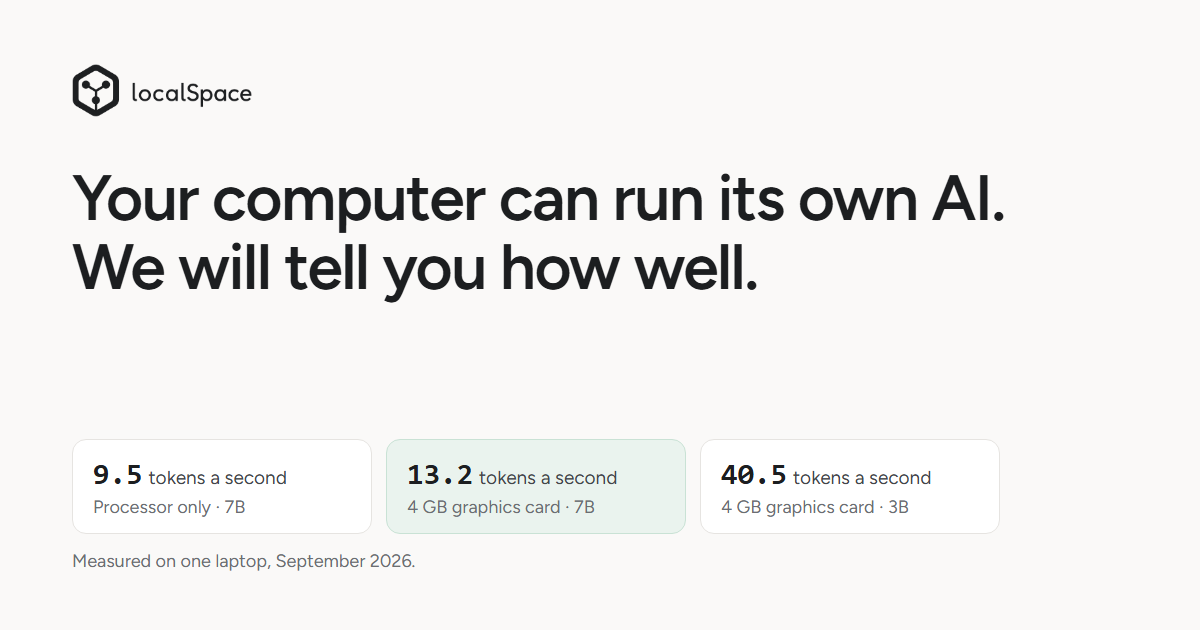
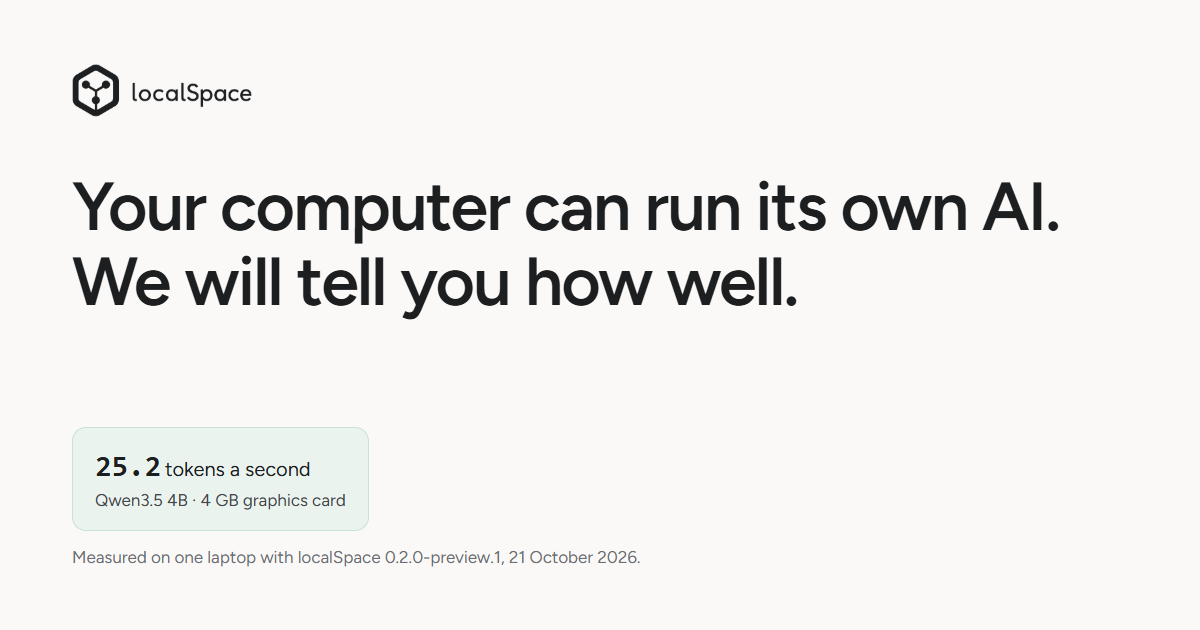
feat: the examples retaken on Qwen3.5 4B from 0.2.0-preview.1
The demo's answer and speed (25.2 tokens a second on a 4 GB card), the
three How it works screens and the link-preview image, all from one sitting
on 21 October 2026. The earlier-version line goes.

diff --git a/ru/index.html b/ru/index.html
@@ -20,7 +20,7 @@
 <meta property="og:image" content="https://linusip.github.io/localLabs/og.png">
 <meta property="og:image:width" content="1200">
 <meta property="og:image:height" content="630">
-<meta property="og:image:alt" content="The localSpace logo and the words: Your computer can run its own AI. We will tell you how well. Below them, three speeds measured on one laptop: 9.5, 13.2 and 40.5 tokens a second.">
+<meta property="og:image:alt" content="The localSpace logo and the words: Your computer can run its own AI. We will tell you how well. Below them, one speed measured on one laptop: Qwen3.5 4B, 25.2 tokens a second, with a 4 GB graphics card.">
 <meta name="twitter:card" content="summary_large_image">
 <meta name="twitter:title" content="Ваш компьютер может запускать свой ИИ. Мы скажем, насколько хорошо.">
 <meta name="twitter:description" content="localSpace смотрит на ваш компьютер, советует подходящую ему модель и ещё до загрузки говорит, как быстро она будет писать. Всё, что вы пишете, остаётся на вашем компьютере.">
@@ -77,9 +77,7 @@
         <div class="demo-pick" data-demo-pick hidden>
           <p class="demo-label" id="demo-label">На одном ноутбуке:</p>
           <div class="chips" role="group" aria-labelledby="demo-label">
-            <button class="chip" type="button" aria-pressed="false" data-tps="9.5" data-model="Qwen2.5 7B">Только процессор <span class="chip-model">7B</span></button>
-            <button class="chip" type="button" aria-pressed="true" data-tps="13.2" data-model="Qwen2.5 7B">Видеокарта 4 ГБ <span class="chip-model">7B</span></button>
-            <button class="chip" type="button" aria-pressed="false" data-tps="40.5" data-model="Qwen2.5 3B">Видеокарта 4 ГБ <span class="chip-model">3B</span></button>
+            <button class="chip" type="button" aria-pressed="true" data-tps="25.2" data-model="Qwen3.5 4B">Видеокарта 4 ГБ <span class="chip-model">4B</span></button>
           </div>
         </div>
         <div class="panel">
@@ -91,25 +89,30 @@
             <div class="msg" lang="en">
               <span class="avatar avatar-model" aria-hidden="true"><svg viewBox="0 0 256 256" focusable="false"><g fill="none" stroke="currentColor" stroke-linecap="round" stroke-linejoin="round"><path d="M136.4 40.85 199.27 77.15A16.8 16.8 0 0 1 207.67 91.7V164.3A16.8 16.8 0 0 1 199.27 178.85L136.4 215.15A16.8 16.8 0 0 1 119.6 215.15L56.73 178.85A16.8 16.8 0 0 1 48.33 164.3V91.7A16.8 16.8 0 0 1 56.73 77.15L119.6 40.85A16.8 16.8 0 0 1 136.4 40.85Z" stroke-width="23.3"/><path d="M88.5 105.3 128 131.2 167.5 105.3" stroke-width="9.1"/><path d="M128 131.2V208.3" stroke-width="9.1"/></g><g fill="currentColor"><circle cx="88.5" cy="105.3" r="15.5"/><circle cx="167.5" cy="105.3" r="15.5"/><circle cx="128" cy="168.2" r="15.5"/></g></svg></span>
               <div class="msg-body">
-                <p class="answer" data-demo-answer>Subject: Request for Kitchen Tap Repair
+                <p class="answer" data-demo-answer>Subject: Request to repair leaking kitchen tap
 
 Dear [Landlord's Name],
 
-I hope this email finds you well. I am writing to bring to your attention a small issue in the kitchen. The tap seems to be leaking, which is a bit concerning. I believe it would be best if you could have a look at it and arrange for it to be fixed at your earliest convenience.
+I hope you are having a good week.
 
-Thank you for your prompt attention to this matter.
+I am writing to kindly ask if it would be possible to have the leaking tap in the kitchen fixed at your earliest convenience. The water is running continuously, which is causing some inconvenience and potential damage to the countertop.
 
-Best regards,</p>
+Please let me know what steps we need to take next or if you require any further information from my side.
+
+Thank you for your time and assistance.
+
+Best regards,
+[Your Name]
+[Your Address/Unit Number]</p>
               </div>
             </div>
           </div>
           <div class="panel-foot">
-            <span class="model-chip" data-demo-model>Qwen2.5 7B</span>
-            <p class="rate" data-demo-rate data-rate="{t} токена в секунду · около {w} слов в секунду" aria-live="polite"><span class="num">13,2</span> токена в секунду · около 10 слов в секунду</p>
+            <span class="model-chip" data-demo-model>Qwen3.5 4B</span>
+            <p class="rate" data-demo-rate data-rate="{t} токена в секунду · около {w} слов в секунду" aria-live="polite"><span class="num">25,2</span> токена в секунду · около 19 слов в секунду</p>
           </div>
         </div>
-        <figcaption>Скорость во время ответа, измеренная на настоящем ноутбуке в сентябре 2026 года. Вопрос и ответ показаны так, как они были написаны, на английском. Приложение скажет вашу скорость до любой загрузки.</figcaption>
-        <p class="earlier">Примеры из более ранней версии; новые примеры скоро появятся.</p>
+        <figcaption>Скорость во время ответа: Qwen3.5 4B в localSpace 0.2.0-preview.1, измерено 21 октября 2026 года на ноутбуке с NVIDIA GeForce RTX 3050 Ti (4 ГБ) и 16 ГБ памяти, в режиме Silent. Вопрос и ответ показаны так, как они были написаны, на английском. Приложение скажет вашу скорость до любой загрузки.</figcaption>
       </figure>
     </div>
   </section>
@@ -128,7 +131,6 @@ Best regards,</p>
   <section class="section" id="how" aria-labelledby="how-title">
     <div class="wrap">
       <h2 id="how-title">Как это работает</h2>
-      <p class="earlier earlier-how">Примеры из более ранней версии; новые примеры скоро появятся.</p>
       <ol class="steps">
         <li>
           <figure class="step">
@@ -136,7 +138,7 @@ Best regards,</p>
               <h3>До любой загрузки оно смотрит на ваш компьютер</h3>
               <p>Первый экран: что приложение нашло, какую модель советует этому компьютеру, как быстро она будет писать и сколько нужно скачать.</p>
             </figcaption>
-            <img class="shot" src="../shots/first-run.webp" width="576" height="598" loading="lazy" decoding="async" alt="Первый экран localSpace на английском. В разделе «Этот компьютер»: NVIDIA GeForce RTX 3050 Ti Laptop GPU, 4 ГБ видеопамяти, 16 ГБ оперативной памяти. Рекомендовано: Qwen2.5 7B Instruct, работает хорошо, быстрее, чем вы читаете, около 7–9 слов в секунду. Около половины модели помещается в видеопамять, остальное работает из оперативной памяти, а это медленнее. Бесплатно, в том числе для коммерческого использования. Скачать около 4,4 ГБ; на диске C: свободно 92 ГБ. Кнопка «Скачать и начать».">
+            <img class="shot" src="../shots/first-run.webp" width="540" height="463" loading="lazy" decoding="async" alt="Первый экран localSpace 0.2.0-preview.1 на английском. В разделе «Этот компьютер»: NVIDIA GeForce RTX 3050 Ti Laptop GPU, 4 ГБ видеопамяти, 16 ГБ оперативной памяти. Рекомендовано: Qwen3.5 4B, работает хорошо, быстрее, чем вы читаете, около 15–20 слов в секунду. Большая часть модели помещается в видеопамять, остальное работает из оперативной памяти, а это медленнее. Бесплатно, в том числе для коммерческого использования. Скачать около 3,2 ГБ; на диске D: свободно 12 ГБ. Кнопка «Скачать и начать».">
           </figure>
         </li>
         <li>
@@ -145,7 +147,7 @@ Best regards,</p>
               <h3>Каждая модель говорит, как она будет работать</h3>
               <p>Мы лучше скажем, что модель медленная, чем вы узнаете это после загрузки на 60 ГБ.</p>
             </figcaption>
-            <img class="shot" src="../shots/models.webp" width="694" height="728" loading="lazy" decoding="async" alt="Список моделей в настройках localSpace на английском, у каждой — как она будет работать на этом компьютере, ещё до загрузки. Qwen2.5 0.5B Instruct: работает хорошо, быстрее, чем вы читаете, около 50–70 слов в секунду. Qwen2.5 1.5B Instruct: работает хорошо, около 35–50 слов в секунду. Qwen2.5 3B Instruct: работает хорошо, около 20–30 слов в секунду; бесплатно только для исследований и оценки, не для коммерческого использования. Qwen2.5 7B Instruct: работает хорошо, около 7–9 слов в секунду. Qwen2.5 14B Instruct: работает примерно с вашей скоростью чтения, около 3–4 слов в секунду. Qwen3 30B-A3B: не поместится на этом компьютере; скачать около 17,3 ГБ. gpt-oss 120B: не поместится на этом компьютере; скачать около 59,0 ГБ.">
+            <img class="shot" src="../shots/models.webp" width="685" height="530" loading="lazy" decoding="async" alt="Модели, которые можно добавить, в настройках localSpace на английском, в разделе «Хорошо работает на этом компьютере»; у каждой — как она будет работать здесь, ещё до загрузки. Qwen3.5 4B от Alibaba (Qwen): около 15–20 слов в секунду, скачать около 3,2 ГБ. Qwen3.5 9B: около 5–7 слов в секунду, около 6,1 ГБ; ей нужна почти вся память компьютера, поэтому перед работой закройте другие программы, например браузер. Gemma 4 E2B от Google: около 15–20 слов в секунду, около 3,2 ГБ. Gemma 4 E4B: около 7–10 слов в секунду, около 4,8 ГБ. Все бесплатны, в том числе для коммерческого использования. Под списком: «Показать 2 модели, которые не поместятся».">
           </figure>
         </li>
         <li>
@@ -154,7 +156,7 @@ Best regards,</p>
               <h3>Потом вы пишете</h3>
               <p>Ответы пишутся на вашем компьютере, и ваши разговоры хранятся там же.</p>
             </figcaption>
-            <img class="shot" src="../shots/chat.webp" width="795" height="540" loading="lazy" decoding="async" alt="Разговор в localSpace на английском. Вопрос: у меня есть яйца, шпинат, фета и полбуханки чёрствого хлеба; что приготовить на ужин? Модель предлагает омлет со шпинатом и фетой: обжарить шпинат с чесноком и добавить фету в яйца во время готовки. Вопрос: что проверить перед покупкой подержанного велосипеда? Модель перечисляет восемь пунктов, от тормозов, колёс и шин до цепи, переключателей, рамы и фонарей, и советует ещё показать велосипед мастеру.">
+            <img class="shot" src="../shots/chat.webp" width="792" height="648" loading="lazy" decoding="async" alt="Разговор в localSpace с Qwen3.5 4B на английском. Вопрос: что проверить перед покупкой подержанного велосипеда? Модель перечисляет семь проверок: пробная поездка (тормоза, передачи, управление), шины, рама (трещины и ржавчина), колёса и спицы, седло и подседельный штырь, цепь и переключатель, история велосипеда. И в конце: если что-то сломано или непонятно, узнайте цену ремонта, прежде чем платить полную стоимость.">
           </figure>
         </li>
       </ol>

diff --git a/uz/index.html b/uz/index.html
@@ -20,7 +20,7 @@
 <meta property="og:image" content="https://linusip.github.io/localLabs/og.png">
 <meta property="og:image:width" content="1200">
 <meta property="og:image:height" content="630">
-<meta property="og:image:alt" content="The localSpace logo and the words: Your computer can run its own AI. We will tell you how well. Below them, three speeds measured on one laptop: 9.5, 13.2 and 40.5 tokens a second.">
+<meta property="og:image:alt" content="The localSpace logo and the words: Your computer can run its own AI. We will tell you how well. Below them, one speed measured on one laptop: Qwen3.5 4B, 25.2 tokens a second, with a 4 GB graphics card.">
 <meta name="twitter:card" content="summary_large_image">
 <meta name="twitter:title" content="Kompyuteringiz oʻz sunʼiy intellektini ishga tushira oladi. Qanchalik yaxshi ekanini biz aytamiz.">
 <meta name="twitter:description" content="localSpace kompyuteringizni koʻrib chiqadi, unga mos modelni tavsiya qiladi va hech narsa yuklab olinmasdan oldin u qanchalik tez yozishini aytadi. Siz yozgan hamma narsa kompyuteringizda qoladi.">
@@ -77,9 +77,7 @@
         <div class="demo-pick" data-demo-pick hidden>
           <p class="demo-label" id="demo-label">Bitta noutbukda:</p>
           <div class="chips" role="group" aria-labelledby="demo-label">
-            <button class="chip" type="button" aria-pressed="false" data-tps="9.5" data-model="Qwen2.5 7B">Faqat protsessor <span class="chip-model">7B</span></button>
-            <button class="chip" type="button" aria-pressed="true" data-tps="13.2" data-model="Qwen2.5 7B">4 GB videokarta <span class="chip-model">7B</span></button>
-            <button class="chip" type="button" aria-pressed="false" data-tps="40.5" data-model="Qwen2.5 3B">4 GB videokarta <span class="chip-model">3B</span></button>
+            <button class="chip" type="button" aria-pressed="true" data-tps="25.2" data-model="Qwen3.5 4B">4 GB videokarta <span class="chip-model">4B</span></button>
           </div>
         </div>
         <div class="panel">
@@ -91,25 +89,30 @@
             <div class="msg" lang="en">
               <span class="avatar avatar-model" aria-hidden="true"><svg viewBox="0 0 256 256" focusable="false"><g fill="none" stroke="currentColor" stroke-linecap="round" stroke-linejoin="round"><path d="M136.4 40.85 199.27 77.15A16.8 16.8 0 0 1 207.67 91.7V164.3A16.8 16.8 0 0 1 199.27 178.85L136.4 215.15A16.8 16.8 0 0 1 119.6 215.15L56.73 178.85A16.8 16.8 0 0 1 48.33 164.3V91.7A16.8 16.8 0 0 1 56.73 77.15L119.6 40.85A16.8 16.8 0 0 1 136.4 40.85Z" stroke-width="23.3"/><path d="M88.5 105.3 128 131.2 167.5 105.3" stroke-width="9.1"/><path d="M128 131.2V208.3" stroke-width="9.1"/></g><g fill="currentColor"><circle cx="88.5" cy="105.3" r="15.5"/><circle cx="167.5" cy="105.3" r="15.5"/><circle cx="128" cy="168.2" r="15.5"/></g></svg></span>
               <div class="msg-body">
-                <p class="answer" data-demo-answer>Subject: Request for Kitchen Tap Repair
+                <p class="answer" data-demo-answer>Subject: Request to repair leaking kitchen tap
 
 Dear [Landlord's Name],
 
-I hope this email finds you well. I am writing to bring to your attention a small issue in the kitchen. The tap seems to be leaking, which is a bit concerning. I believe it would be best if you could have a look at it and arrange for it to be fixed at your earliest convenience.
+I hope you are having a good week.
 
-Thank you for your prompt attention to this matter.
+I am writing to kindly ask if it would be possible to have the leaking tap in the kitchen fixed at your earliest convenience. The water is running continuously, which is causing some inconvenience and potential damage to the countertop.
 
-Best regards,</p>
+Please let me know what steps we need to take next or if you require any further information from my side.
+
+Thank you for your time and assistance.
+
+Best regards,
+[Your Name]
+[Your Address/Unit Number]</p>
               </div>
             </div>
           </div>
           <div class="panel-foot">
-            <span class="model-chip" data-demo-model>Qwen2.5 7B</span>
-            <p class="rate" data-demo-rate data-rate="soniyasiga {t} token · soniyasiga taxminan {w} soʻz" aria-live="polite">soniyasiga <span class="num">13,2</span> token · soniyasiga taxminan 10 soʻz</p>
+            <span class="model-chip" data-demo-model>Qwen3.5 4B</span>
+            <p class="rate" data-demo-rate data-rate="soniyasiga {t} token · soniyasiga taxminan {w} soʻz" aria-live="polite">soniyasiga <span class="num">25,2</span> token · soniyasiga taxminan 19 soʻz</p>
           </div>
         </div>
-        <figcaption>Javob yozilayotgandagi tezlik, 2026-yil sentabrida haqiqiy noutbukda oʻlchangan. Savol va javob qanday yozilgan boʻlsa, shunday — ingliz tilida koʻrsatilgan. Ilova sizning tezligingizni hech narsa yuklab olinmasdan oldin aytadi.</figcaption>
-        <p class="earlier">Misollar oldingi versiyadan; yangi misollar tez orada.</p>
+        <figcaption>Javob yozilayotgandagi tezlik: localSpace 0.2.0-preview.1 dagi Qwen3.5 4B, 2026-yil 21-oktabrda NVIDIA GeForce RTX 3050 Ti (4 GB) va 16 GB xotirali noutbukda, Silent rejimida oʻlchangan. Savol va javob qanday yozilgan boʻlsa, shunday — ingliz tilida koʻrsatilgan. Ilova sizning tezligingizni hech narsa yuklab olinmasdan oldin aytadi.</figcaption>
       </figure>
     </div>
   </section>
@@ -128,7 +131,6 @@ Best regards,</p>
   <section class="section" id="how" aria-labelledby="how-title">
     <div class="wrap">
       <h2 id="how-title">Qanday ishlaydi</h2>
-      <p class="earlier earlier-how">Misollar oldingi versiyadan; yangi misollar tez orada.</p>
       <ol class="steps">
         <li>
           <figure class="step">
@@ -136,7 +138,7 @@ Best regards,</p>
               <h3>Hech narsa yuklab olinmasdan oldin u kompyuteringizni koʻrib chiqadi</h3>
               <p>Birinchi ekran: nima topgani, shu kompyuterga qaysi modelni tavsiya qilgani, u qanchalik tez yozishi va qancha yuklab olish kerakligi.</p>
             </figcaption>
-            <img class="shot" src="../shots/first-run.webp" width="576" height="598" loading="lazy" decoding="async" alt="localSpace’ning ingliz tilidagi birinchi ekrani. «Bu kompyuter» ostida: NVIDIA GeForce RTX 3050 Ti Laptop GPU, 4 GB videoxotira, 16 GB tizim xotirasi. Tavsiya etilgani: Qwen2.5 7B Instruct, yaxshi ishlaydi, siz oʻqishingizdan tezroq, soniyasiga taxminan 7–9 soʻz. Uning taxminan yarmi videoxotiraga sigʻadi, qolgani sekinroq tizim xotirasidan ishlaydi. Bepul, tijoriy foydalanish uchun ham. Taxminan 4,4 GB yuklab olinadi; C: diskda 92 GB boʻsh. «Yuklab olish va boshlash» tugmasi.">
+            <img class="shot" src="../shots/first-run.webp" width="540" height="463" loading="lazy" decoding="async" alt="localSpace 0.2.0-preview.1 ning ingliz tilidagi birinchi ekrani. «Bu kompyuter» ostida: NVIDIA GeForce RTX 3050 Ti Laptop GPU, 4 GB videoxotira, 16 GB tizim xotirasi. Tavsiya etilgani: Qwen3.5 4B, yaxshi ishlaydi, siz oʻqishingizdan tezroq, soniyasiga taxminan 15–20 soʻz. Uning katta qismi videoxotiraga sigʻadi, qolgani sekinroq tizim xotirasidan ishlaydi. Bepul, tijoriy foydalanish uchun ham. Taxminan 3,2 GB yuklab olinadi; D: diskda 12 GB boʻsh. «Yuklab olish va boshlash» tugmasi.">
           </figure>
         </li>
         <li>
@@ -145,7 +147,7 @@ Best regards,</p>
               <h3>Har bir model qanday ishlashini aytadi</h3>
               <p>60 GB yuklab olgandan keyin bilib qolishingizdan koʻra, sekin ekanini oldindan aytganimiz maʼqul.</p>
             </figcaption>
-            <img class="shot" src="../shots/models.webp" width="694" height="728" loading="lazy" decoding="async" alt="localSpace sozlamalaridagi ingliz tilidagi modellar roʻyxati; har birida yuklab olinmasdan oldin shu kompyuterda qanday ishlashi yozilgan. Qwen2.5 0.5B Instruct: yaxshi ishlaydi, siz oʻqishingizdan tezroq, soniyasiga taxminan 50–70 soʻz. Qwen2.5 1.5B Instruct: yaxshi ishlaydi, soniyasiga taxminan 35–50 soʻz. Qwen2.5 3B Instruct: yaxshi ishlaydi, soniyasiga taxminan 20–30 soʻz; faqat tadqiqot va baholash uchun bepul, tijoriy foydalanish uchun emas. Qwen2.5 7B Instruct: yaxshi ishlaydi, soniyasiga taxminan 7–9 soʻz. Qwen2.5 14B Instruct: ishlaydi, taxminan siz oʻqigandek tez, soniyasiga 3–4 soʻz. Qwen3 30B-A3B: bu kompyuterga sigʻmaydi; taxminan 17,3 GB yuklab olinadi. gpt-oss 120B: bu kompyuterga sigʻmaydi; taxminan 59,0 GB yuklab olinadi.">
+            <img class="shot" src="../shots/models.webp" width="685" height="530" loading="lazy" decoding="async" alt="localSpace sozlamalaridagi qoʻshish mumkin boʻlgan modellar (ingliz tilida), «Bu kompyuterda yaxshi ishlaydi» ostida; har birida yuklab olinmasdan oldin bu yerda qanday ishlashi yozilgan. Alibaba (Qwen) ning Qwen3.5 4B: soniyasiga taxminan 15–20 soʻz, taxminan 3,2 GB. Qwen3.5 9B: soniyasiga taxminan 5–7 soʻz, taxminan 6,1 GB; unga kompyuter xotirasining katta qismi kerak, shuning uchun undan oldin brauzer kabi boshqa dasturlarni yoping. Google ning Gemma 4 E2B: soniyasiga taxminan 15–20 soʻz, taxminan 3,2 GB. Gemma 4 E4B: soniyasiga taxminan 7–10 soʻz, taxminan 4,8 GB. Hammasi bepul, tijoriy foydalanish uchun ham. Roʻyxat ostida: «Sigʻmaydigan 2 ta modelni koʻrsatish».">
           </figure>
         </li>
         <li>
@@ -154,7 +156,7 @@ Best regards,</p>
               <h3>Keyin siz yozasiz</h3>
               <p>Javoblar kompyuteringizda yoziladi, suhbatlaringiz ham oʻsha yerda saqlanadi.</p>
             </figcaption>
-            <img class="shot" src="../shots/chat.webp" width="795" height="540" loading="lazy" decoding="async" alt="localSpace’dagi ingliz tilidagi suhbat. Savol: menda tuxum, ismaloq, feta pishlogʻi va yarimta qotgan non bor; kechqurun nima pishirsam boʻladi? Model ismaloq va fetali omlet taklif qiladi: ismaloqni sarimsoq bilan qovurib, pishayotgan tuxumga fetani qoʻshish. Savol: ishlatilgan velosiped sotib olishdan oldin nimani tekshirish kerak? Model tormoz, gʻildirak va shinalardan tortib zanjir, tezlik almashtirgich, rama va chiroqlargacha sakkizta narsani sanaydi va ustaga koʻrsatishni ham maslahat beradi.">
+            <img class="shot" src="../shots/chat.webp" width="792" height="648" loading="lazy" decoding="async" alt="localSpace’dagi Qwen3.5 4B bilan ingliz tilidagi suhbat. Savol: ishlatilgan velosiped sotib olishdan oldin nimani tekshirish kerak? Model yettita tekshiruvni sanaydi: sinov yurishi (tormoz, tezliklar, boshqaruv), shinalar, rama (yoriq va zang), gʻildirak va kegaylar, oʻrindiq va uning ustuni, zanjir va tezlik almashtirgich, velosiped tarixi. Oxirida: biror narsa buzilgan yoki tushunarsiz boʻlsa, toʻliq narx toʻlashdan oldin taʼmirlash narxini soʻrang.">
           </figure>
         </li>
       </ol>

diff --git a/index.html b/index.html
@@ -20,7 +20,7 @@
 <meta property="og:image" content="https://linusip.github.io/localLabs/og.png">
 <meta property="og:image:width" content="1200">
 <meta property="og:image:height" content="630">
-<meta property="og:image:alt" content="The localSpace logo and the words: Your computer can run its own AI. We will tell you how well. Below them, three speeds measured on one laptop: 9.5, 13.2 and 40.5 tokens a second.">
+<meta property="og:image:alt" content="The localSpace logo and the words: Your computer can run its own AI. We will tell you how well. Below them, one speed measured on one laptop: Qwen3.5 4B, 25.2 tokens a second, with a 4 GB graphics card.">
 <meta name="twitter:card" content="summary_large_image">
 <meta name="twitter:title" content="Your computer can run its own AI. We will tell you how well.">
 <meta name="twitter:description" content="localSpace looks at your computer, recommends a model that suits it and tells you how fast it will write before anything downloads. Everything you type stays on your machine.">
@@ -77,9 +77,7 @@
         <div class="demo-pick" data-demo-pick hidden>
           <p class="demo-label" id="demo-label">On one laptop:</p>
           <div class="chips" role="group" aria-labelledby="demo-label">
-            <button class="chip" type="button" aria-pressed="false" data-tps="9.5" data-model="Qwen2.5 7B">Processor only <span class="chip-model">7B</span></button>
-            <button class="chip" type="button" aria-pressed="true" data-tps="13.2" data-model="Qwen2.5 7B">4 GB graphics card <span class="chip-model">7B</span></button>
-            <button class="chip" type="button" aria-pressed="false" data-tps="40.5" data-model="Qwen2.5 3B">4 GB graphics card <span class="chip-model">3B</span></button>
+            <button class="chip" type="button" aria-pressed="true" data-tps="25.2" data-model="Qwen3.5 4B">4 GB graphics card <span class="chip-model">4B</span></button>
           </div>
         </div>
         <div class="panel">
@@ -91,25 +89,30 @@
             <div class="msg" lang="en">
               <span class="avatar avatar-model" aria-hidden="true"><svg viewBox="0 0 256 256" focusable="false"><g fill="none" stroke="currentColor" stroke-linecap="round" stroke-linejoin="round"><path d="M136.4 40.85 199.27 77.15A16.8 16.8 0 0 1 207.67 91.7V164.3A16.8 16.8 0 0 1 199.27 178.85L136.4 215.15A16.8 16.8 0 0 1 119.6 215.15L56.73 178.85A16.8 16.8 0 0 1 48.33 164.3V91.7A16.8 16.8 0 0 1 56.73 77.15L119.6 40.85A16.8 16.8 0 0 1 136.4 40.85Z" stroke-width="23.3"/><path d="M88.5 105.3 128 131.2 167.5 105.3" stroke-width="9.1"/><path d="M128 131.2V208.3" stroke-width="9.1"/></g><g fill="currentColor"><circle cx="88.5" cy="105.3" r="15.5"/><circle cx="167.5" cy="105.3" r="15.5"/><circle cx="128" cy="168.2" r="15.5"/></g></svg></span>
               <div class="msg-body">
-                <p class="answer" data-demo-answer>Subject: Request for Kitchen Tap Repair
+                <p class="answer" data-demo-answer>Subject: Request to repair leaking kitchen tap
 
 Dear [Landlord's Name],
 
-I hope this email finds you well. I am writing to bring to your attention a small issue in the kitchen. The tap seems to be leaking, which is a bit concerning. I believe it would be best if you could have a look at it and arrange for it to be fixed at your earliest convenience.
+I hope you are having a good week.
 
-Thank you for your prompt attention to this matter.
+I am writing to kindly ask if it would be possible to have the leaking tap in the kitchen fixed at your earliest convenience. The water is running continuously, which is causing some inconvenience and potential damage to the countertop.
 
-Best regards,</p>
+Please let me know what steps we need to take next or if you require any further information from my side.
+
+Thank you for your time and assistance.
+
+Best regards,
+[Your Name]
+[Your Address/Unit Number]</p>
               </div>
             </div>
           </div>
           <div class="panel-foot">
-            <span class="model-chip" data-demo-model>Qwen2.5 7B</span>
-            <p class="rate" data-demo-rate data-rate="{t} tokens a second · about {w} words a second" aria-live="polite"><span class="num">13.2</span> tokens a second · about 10 words a second</p>
+            <span class="model-chip" data-demo-model>Qwen3.5 4B</span>
+            <p class="rate" data-demo-rate data-rate="{t} tokens a second · about {w} words a second" aria-live="polite"><span class="num">25.2</span> tokens a second · about 19 words a second</p>
           </div>
         </div>
-        <figcaption>Speeds once it is writing, measured on a real laptop in September 2026. The app tells you yours before you download anything.</figcaption>
-        <p class="earlier">Examples from an earlier version; new examples coming soon.</p>
+        <figcaption>Speed once it is writing: Qwen3.5 4B in localSpace 0.2.0-preview.1, measured on 21 October 2026 on a laptop with an NVIDIA GeForce RTX 3050 Ti (4 GB) and 16 GB of memory, in Silent mode. The app tells you yours before you download anything.</figcaption>
       </figure>
     </div>
   </section>
@@ -128,7 +131,6 @@ Best regards,</p>
   <section class="section" id="how" aria-labelledby="how-title">
     <div class="wrap">
       <h2 id="how-title">How it works</h2>
-      <p class="earlier earlier-how">Examples from an earlier version; new examples coming soon.</p>
       <ol class="steps">
         <li>
           <figure class="step">
@@ -136,7 +138,7 @@ Best regards,</p>
               <h3>It looks at your computer before anything downloads</h3>
               <p>The first screen: what it found, the model it recommends for this computer, how fast that model will write and how big the download is.</p>
             </figcaption>
-            <img class="shot" src="shots/first-run.webp" width="576" height="598" loading="lazy" decoding="async" alt="The first screen of localSpace. Under This computer: NVIDIA GeForce RTX 3050 Ti Laptop GPU, 4 GB of graphics memory, 16 GB of system memory. Recommended for it: Qwen2.5 7B Instruct, runs well, faster than you read, about 7 to 9 words a second. About half of it fits in the graphics memory; the rest runs from system memory, which is slower. Free to use, also for commercial use. About 4.4 GB to download; drive C: has 92 GB free. A button, Download and start.">
+            <img class="shot" src="shots/first-run.webp" width="540" height="463" loading="lazy" decoding="async" alt="The first screen of localSpace 0.2.0-preview.1. Under This computer: NVIDIA GeForce RTX 3050 Ti Laptop GPU, 4 GB of graphics memory, 16 GB of system memory. Recommended for it: Qwen3.5 4B, runs well, faster than you read, about 15 to 20 words a second. Most of it fits in the graphics memory; the rest runs from system memory, which is slower. Free to use, also for commercial use. About 3.2 GB to download; drive D: has 12 GB free. A button, Download and start.">
           </figure>
         </li>
         <li>
@@ -145,7 +147,7 @@ Best regards,</p>
               <h3>Every model tells you how it will run</h3>
               <p>We would rather tell you it is slow than have you find out after a 60 GB download.</p>
             </figcaption>
-            <img class="shot" src="shots/models.webp" width="694" height="728" loading="lazy" decoding="async" alt="The list of models in localSpace's settings, each with how it will run on this computer before it is downloaded. Qwen2.5 0.5B Instruct: runs well, faster than you read, about 50 to 70 words a second. Qwen2.5 1.5B Instruct: runs well, about 35 to 50 words a second. Qwen2.5 3B Instruct: runs well, about 20 to 30 words a second; free for research and evaluation only, not for commercial use. Qwen2.5 7B Instruct: runs well, about 7 to 9 words a second. Qwen2.5 14B Instruct: works, about as fast as you read, about 3 to 4 words a second. Qwen3 30B-A3B: will not fit on this computer; about 17.3 GB to download. gpt-oss 120B: will not fit on this computer; about 59.0 GB to download.">
+            <img class="shot" src="shots/models.webp" width="685" height="530" loading="lazy" decoding="async" alt="The models that can be added, in localSpace's settings, under Runs well on this computer, each with how it will run here before it is downloaded. Qwen3.5 4B by Alibaba (Qwen): about 15 to 20 words a second, about 3.2 GB to download. Qwen3.5 9B: about 5 to 7 words a second, about 6.1 GB; it needs most of this computer's memory, so close other programs such as your browser before you use it. Gemma 4 E2B by Google: about 15 to 20 words a second, about 3.2 GB. Gemma 4 E4B: about 7 to 10 words a second, about 4.8 GB. Each is free to use, also for commercial use. Below the list: Show the 2 models that will not fit.">
           </figure>
         </li>
         <li>
@@ -154,7 +156,7 @@ Best regards,</p>
               <h3>Then you type</h3>
               <p>Answers are written on your computer, and your conversations are kept there too.</p>
             </figcaption>
-            <img class="shot" src="shots/chat.webp" width="795" height="540" loading="lazy" decoding="async" alt="A conversation in localSpace. Asked: I have eggs, spinach, feta and half a loaf of stale bread. What can I cook tonight? It suggests feta-stuffed spinach omelets: sauté the spinach with some garlic, then stuff the feta into the eggs as they cook. Asked: What should I check before I buy a used bicycle? It lists eight things, from the brakes, wheels and tires to the chain, derailleurs, frame and lights, and suggests a mechanic's inspection as well.">
+            <img class="shot" src="shots/chat.webp" width="792" height="648" loading="lazy" decoding="async" alt="A conversation in localSpace with Qwen3.5 4B. Asked: What should I check before I buy a used bicycle? It lists seven checks: a test ride for the brakes, gears and handling; the tires; the frame, for cracks and rust; the wheels and spokes; the saddle and seatpost; the chain and derailleur; and the bike's history. It ends: if something is broken or unclear, ask for a repair estimate before paying full price.">
           </figure>
         </li>
       </ol>

diff --git a/style.css b/style.css
@@ -633,17 +633,6 @@ h3 {
 .hero-get { margin-top: 32px; }
 .hero-buttons { display: flex; flex-wrap: wrap; gap: 10px; }
 
-/* Says that the demo and the screens come from an earlier version. */
-.earlier {
-  margin-top: 10px;
-  font-size: 15px;
-  font-weight: 500;
-  color: var(--ls-ink-soft);
-}
-.section > .wrap > .earlier-how { margin: -24px 0 40px; }
-@media (min-width: 1000px) {
-  .section > .wrap > .earlier-how { margin: -40px 0 56px; }
-}
 .hero-meta { margin-top: 12px; font-size: 15px; color: var(--ls-muted); }
 .hero-meta + .hero-meta { margin-top: 4px; }
 

diff --git a/DECISIONS.md b/DECISIONS.md
@@ -3,6 +3,22 @@
 Why the page is the way it is, so that a later change does not undo a choice
 by accident. Newest first.
 
+## 2026-10-21: the examples retaken on Qwen3.5 4B
+
+- **The demo, the speed and the three screens come from localSpace
+  0.2.0-preview.1 (920b7123),** in one sitting on 21 October 2026, on one
+  laptop: NVIDIA GeForce RTX 3050 Ti Laptop GPU (4 GB), 16 GB of memory,
+  Silent mode, with the model placed the app's own way (most of it on the
+  card). Qwen2.5, which 0.2 no longer offers, is gone from the page.
+- **The demo's answer** is the one Qwen3.5 4B wrote, word for word, measured
+  by `localspace measure --chat`: 121 tokens at 25.2 a second. The two chat
+  answers in the third screen ran at 25.06 and 25.13 a second (the engine's
+  own timing). Words a second still use the app's 0.75 words per token.
+- **One chip, not three.** The processor-only run was stopped by the laptop's
+  watch when free memory fell under 3 GB, so it has no figure; a speed is
+  shown only once it has been measured.
+- **The link-preview image** shows that one measured speed.
+
 ## 2026-10-21: the download section, in three languages
 
 - **The waitlist is gone; the page offers the download.** Both Formspree forms
